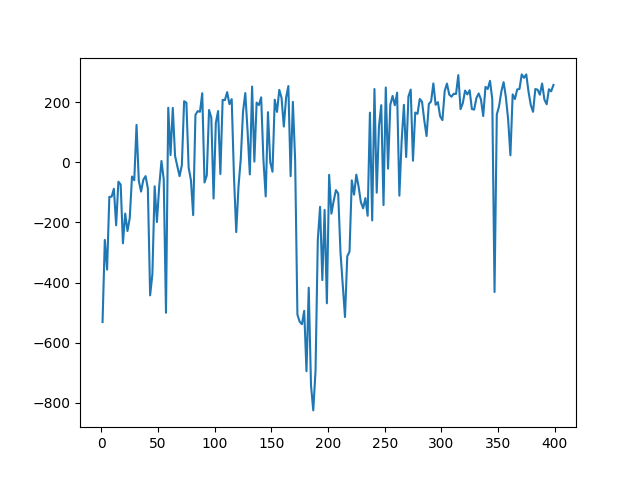
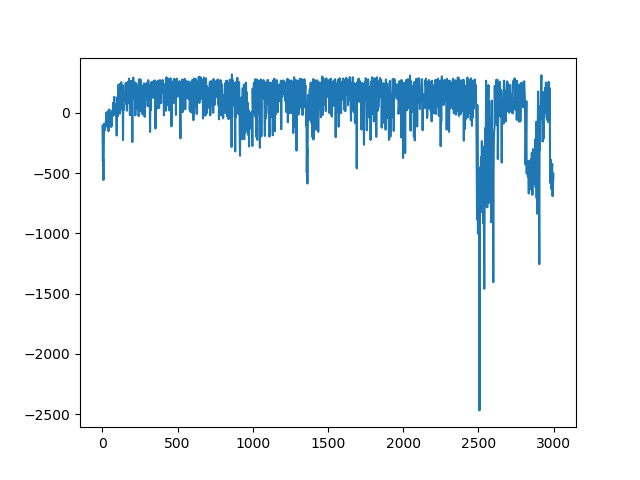
new code added

diff --git a/env_setup.py b/env_setup.py
@@ -6,10 +6,16 @@ from keras.layers import Dense
 from keras.optimizers import adam
 import matplotlib.pyplot as plt
 from keras.activations import relu, linear
+import torch
+import torch.optim as optim
+from a3c_test import test
+
+import gym
 
 import numpy as np
 
 from dqn import DQN
+from a3c import ActorCritic
 
 import numpy as np
 env = gym.make('LunarLander-v2')
@@ -26,7 +32,7 @@ print(env.action_space)
 print(env.observation_space)
 
 
-def observation(obs, option=0):
+def get_observation(obs, option=0):
 	# add gaussian noise
 	if option == 0:
 		noise = np.random.normal(size=obs.shape) * 0.005
@@ -43,21 +49,18 @@ def observation(obs, option=0):
 		obs = np.concatenate((obs[:5], obs[6:]))
 	return obs
 
-def action(act, option=0):
+def get_action(act, option=0):
 	# add random action
 	if option == 0:
 		poss = np.random.uniform(size=1)
-		if poss >= 0.9:
-			rand_action = np.arange(4) + 1
+		if poss >= 0.8:
+			rand_action = np.arange(4)
 			np.random.shuffle(rand_action)
 			return rand_action[0]
-	else:
-		return act
-
+	return act
 
 
 def train_dqn(episode):
-
     loss = []
     agent = DQN(env.action_space.n, env.observation_space.shape[0])
     for e in range(episode):
@@ -66,8 +69,9 @@ def train_dqn(episode):
         score = 0
         max_steps = 3000
         for i in range(max_steps):
-            state = observation(state, option=1)
+            state = get_observation(state, option=1)
             action = agent.act(state)
+            action = get_action(action)
             # env.render()
             next_state, reward, done, _ = env.step(action)
             score += reward
@@ -88,13 +92,79 @@ def train_dqn(episode):
         print("Average over last 100 episode: {0:.2f} \n".format(is_solved))
     return loss
 
+def train_a3c(episode):
+    # Defaults parameters:
+    #    gamma = 0.99
+    #    lr = 0.02
+    #    betas = (0.9, 0.999)
+    #    random_seed = 543
+
+    render = False
+    gamma = 0.99
+    lr = 0.02
+    betas = (0.9, 0.999)
+    random_seed = 543
+
+    torch.manual_seed(random_seed)
+
+    policy = ActorCritic()
+    optimizer = optim.Adam(policy.parameters(), lr=lr, betas=betas)
+    print(lr, betas)
+
+    running_reward = 0
+    loss_ls = []
+    for i_episode in range(0, episode):
+        state = env.reset()
+        score = 0
+        for t in range(10000):
+            state = get_observation(state, option=1)
+            action = policy(state)
+            action = get_action(action)
+            state, reward, done, _ = env.step(action)
+            policy.rewards.append(reward)
+            running_reward += reward
+            score += reward
+            if render and i_episode > 1000:
+                env.render()
+            if done:
+                break
+        loss_ls.append(score)
+        # Updating the policy :
+        optimizer.zero_grad()
+        loss = policy.calculateLoss(gamma)
+        loss.backward()
+        optimizer.step()
+        policy.clearMemory()
+
+        # # saving the model if episodes > 999 OR avg reward > 200
+        # if i_episode > 999:
+        #     torch.save(policy.state_dict(), './preTrained/LunarLander_{}_{}_{}.pth'.format(lr, betas[0], betas[1]))
+
+        if running_reward > 4000:
+            torch.save(policy.state_dict(), './preTrained/LunarLander_{}_{}_{}.pth'.format(lr, betas[0], betas[1]))
+            print("########## Solved! ##########")
+            test(name='LunarLander_{}_{}_{}.pth'.format(lr, betas[0], betas[1]))
+            break
+
+        if i_episode % 20 == 0:
+            running_reward = running_reward / 20
+            print('Episode {}\tlength: {}\treward: {}'.format(i_episode, t, running_reward))
+            running_reward = 0
+
+    return loss_ls
+
+def train_ddpg(episode):
+    pass
+
 if __name__ == '__main__':
 
     print(env.observation_space)
     print(env.action_space)
-    episodes = 400
-    loss = train_dqn(episodes)
-    plt.plot([i+1 for i in range(0, len(loss), 2)], loss[::2])
+    episodes = 3000
+    dqn_loss = train_dqn(episodes)
+    #a3c_loss = train_a3c(episodes)
+    #plt.plot([i+1 for i in range(0, len(loss), 2)], loss[::2])
+    plt.plot([i + 1 for i in range(0, len(dqn_loss), 2)], dqn_loss[::2])
     plt.savefig("result.png")
 
 

diff --git a/a3c.py b/a3c.py
@@ -1,0 +1,57 @@
+import torch
+import torch.nn as nn
+import torch.nn.functional as F
+from torch.distributions import Categorical
+
+class ActorCritic(nn.Module):
+    def __init__(self):
+        super(ActorCritic, self).__init__()
+        self.affine = nn.Linear(8, 128)
+        
+        self.action_layer = nn.Linear(128, 4)
+        self.value_layer = nn.Linear(128, 1)
+        
+        self.logprobs = []
+        self.state_values = []
+        self.rewards = []
+
+    def forward(self, state):
+        state = torch.from_numpy(state).float()
+        state = F.relu(self.affine(state))
+        
+        state_value = self.value_layer(state)
+        
+        action_probs = F.softmax(self.action_layer(state))
+        action_distribution = Categorical(action_probs)
+        action = action_distribution.sample()
+        
+        self.logprobs.append(action_distribution.log_prob(action))
+        self.state_values.append(state_value)
+        
+        return action.item()
+    
+    def calculateLoss(self, gamma=0.99):
+        
+        # calculating discounted rewards:
+        rewards = []
+        dis_reward = 0
+        for reward in self.rewards[::-1]:
+            dis_reward = reward + gamma * dis_reward
+            rewards.insert(0, dis_reward)
+                
+        # normalizing the rewards:
+        rewards = torch.tensor(rewards)
+        rewards = (rewards - rewards.mean()) / (rewards.std())
+        
+        loss = 0
+        for logprob, value, reward in zip(self.logprobs, self.state_values, rewards):
+            advantage = reward  - value.item()
+            action_loss = -logprob * advantage
+            value_loss = F.smooth_l1_loss(value, reward)
+            loss += (action_loss + value_loss)   
+        return loss
+    
+    def clearMemory(self):
+        del self.logprobs[:]
+        del self.state_values[:]
+        del self.rewards[:]

diff --git a/a3c_test.py b/a3c_test.py
@@ -1,0 +1,34 @@
+from a3c import ActorCritic
+import torch
+import gym
+from PIL import Image
+
+def test(n_episodes=5, name='LunarLander_TWO.pth'):
+    env = gym.make('LunarLander-v2')
+    policy = ActorCritic()
+    
+    policy.load_state_dict(torch.load('./preTrained/{}'.format(name)))
+    
+    render = True
+    save_gif = False
+
+    for i_episode in range(1, n_episodes+1):
+        state = env.reset()
+        running_reward = 0
+        for t in range(10000):
+            action = policy(state)
+            state, reward, done, _ = env.step(action)
+            running_reward += reward
+            if render:
+                 env.render()
+                 if save_gif:
+                     img = env.render(mode = 'rgb_array')
+                     img = Image.fromarray(img)
+                     img.save('./gif/{}.jpg'.format(t))
+            if done:
+                break
+        print('Episode {}\tReward: {}'.format(i_episode, running_reward))
+    env.close()
+            
+if __name__ == '__main__':
+    test()

diff --git a/dqn.py b/dqn.py
@@ -22,7 +22,7 @@ class DQN:
         self.gamma = .99
         self.batch_size = 64
         self.epsilon_min = .01
-        self.lr = 0.001
+        self.lr = 0.0003
         self.epsilon_decay = .996
         self.memory = deque(maxlen=1000000)
         self.model = self.build_model()
